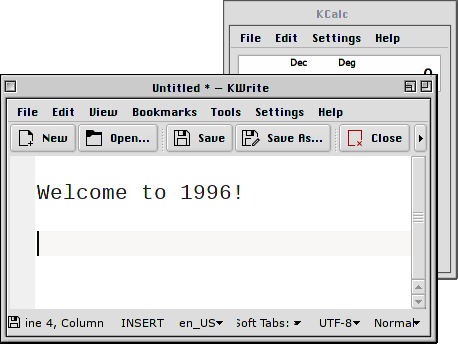
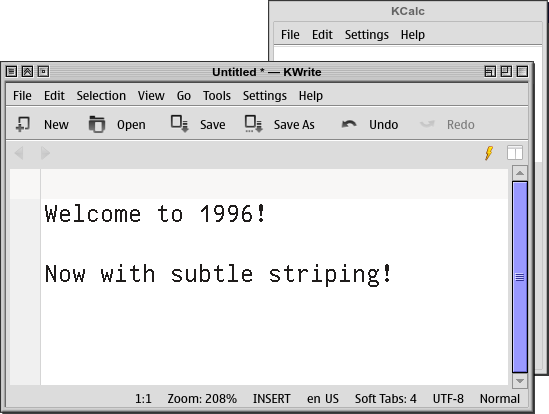
README

diff --git a/README.md b/README.md
@@ -14,7 +14,7 @@ Retro platinum-inspired theme for [KWin](https://en.wikipedia.org/wiki/KWin)'s _
 6. In case the decoration looks ugly, try flushing caches:
    
    ```
-   rm -rf ~/.cache/plasm* ~/.cache/ico* && kwin_x11 --replace&
+   rm -rf ~/.cache/plasm* ~/.cache/ico* && kwin_wayland --replace&
    ```
 
 ---
